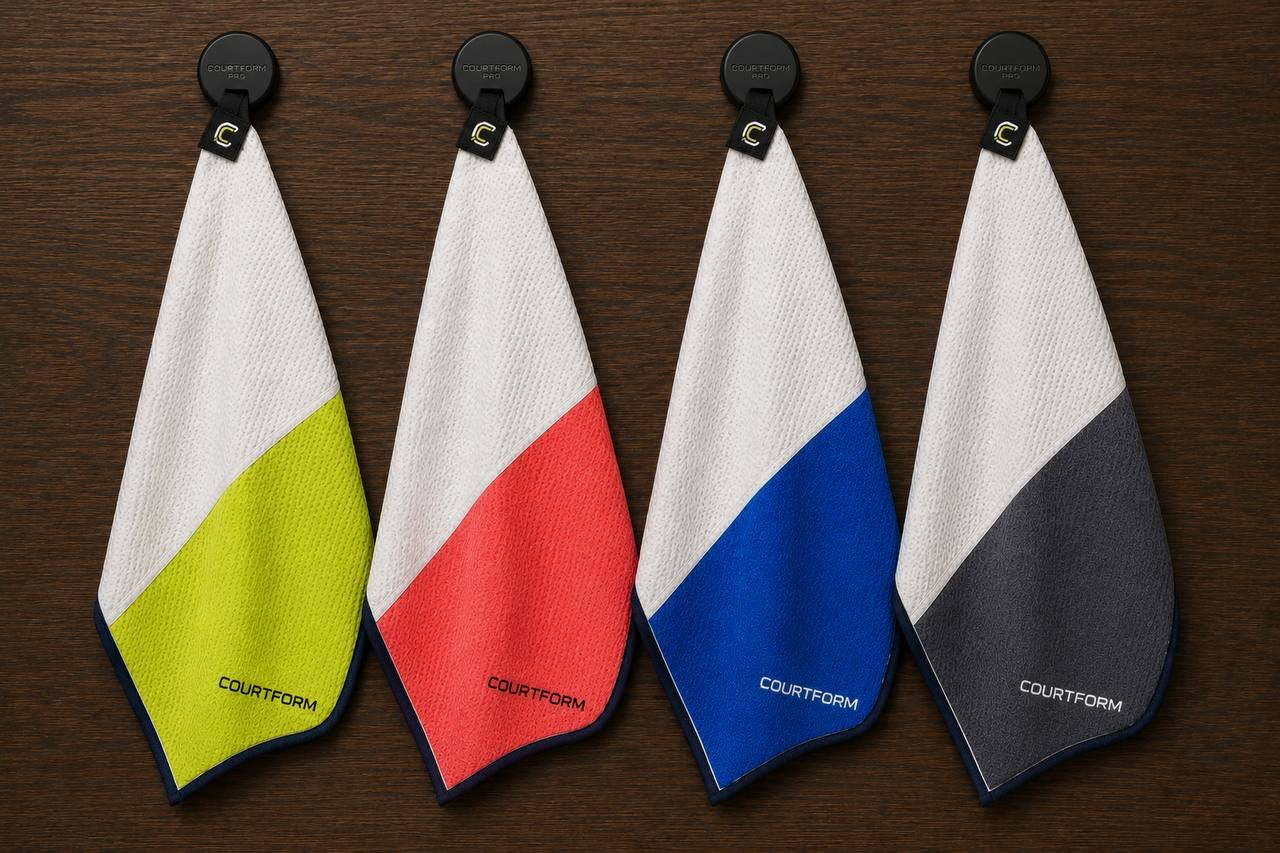
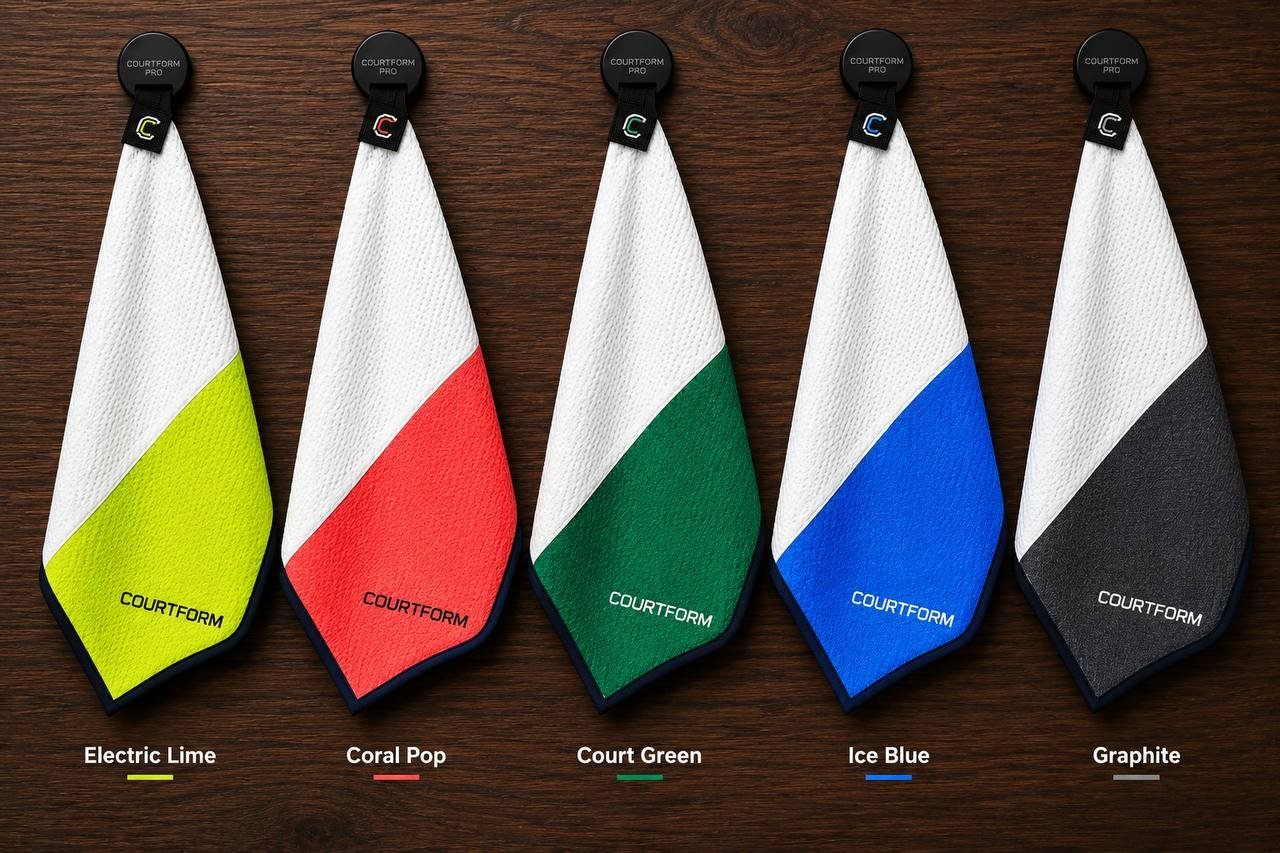
feat: 加 Court Green 第 5 色 + 更新 5 色 lineup 圖
- 06-color-lineup.jpg 換成 5 色（含 Court Green）
- 09-court-green-solo.jpg 單品圖入庫
- 規格區 swatches 從 4 色 → 5 色（grid-cols-5）
- 點 Court Green 切換尺寸圖為綠色（#22c55e）

diff --git a/index.html b/index.html
@@ -462,7 +462,7 @@
 
                 <div class="lg:w-1/2">
                     <h3 class="text-3xl font-bold text-white mb-8"><span data-i18n-en>Pick your court color</span><span data-i18n-zh>選擇你的戰鬥色彩</span></h3>
-                    <div class="grid grid-cols-2 sm:grid-cols-4 gap-6">
+                    <div class="grid grid-cols-2 sm:grid-cols-5 gap-4">
                         <div class="text-center cursor-pointer group" onclick="setTowelColor('#d4ed31', '#a3c423', this)" data-color="lime">
                             <div class="w-16 h-16 rounded-full mx-auto bg-brand-lime border-4 border-brand-dark shadow-[0_0_0_2px_rgba(255,255,255,0.2)] mb-3 group-hover:scale-110 transition-transform"></div>
                             <p class="text-sm font-bold text-white">ELECTRIC LIME</p>
@@ -472,6 +472,11 @@
                             <div class="w-16 h-16 rounded-full mx-auto bg-brand-coral border-4 border-brand-dark shadow-[0_0_0_2px_rgba(255,255,255,0.2)] mb-3 group-hover:scale-110 transition-transform"></div>
                             <p class="text-sm font-bold text-white">CORAL POP</p>
                             <p class="text-xs text-slate-500"><span data-i18n-en>Bold</span><span data-i18n-zh>珊瑚紅</span></p>
+                        </div>
+                        <div class="text-center cursor-pointer group" onclick="setTowelColor('#22c55e', '#15803d', this)" data-color="court-green">
+                            <div class="w-16 h-16 rounded-full mx-auto border-4 border-brand-dark shadow-[0_0_0_2px_rgba(255,255,255,0.2)] mb-3 group-hover:scale-110 transition-transform" style="background:#22c55e"></div>
+                            <p class="text-sm font-bold text-white">COURT GREEN</p>
+                            <p class="text-xs text-slate-500"><span data-i18n-en>Premium</span><span data-i18n-zh>球場綠</span></p>
                         </div>
                         <div class="text-center cursor-pointer group" onclick="setTowelColor('#3b82f6', '#1e40af', this)" data-color="ocean">
                             <div class="w-16 h-16 rounded-full mx-auto bg-brand-ocean border-4 border-brand-dark shadow-[0_0_0_2px_rgba(255,255,255,0.2)] mb-3 group-hover:scale-110 transition-transform"></div>
@@ -485,7 +490,7 @@
                         </div>
                     </div>
                     <div class="mt-8 aspect-[3/2] rounded-2xl border border-white/10 overflow-hidden relative">
-                        <img src="/images/06-color-lineup.jpg" alt="Courtform Pro 4 color lineup: Lime Pop, Coral Pop, Ocean Blue, Graphite" class="w-full h-full object-cover">
+                        <img src="/images/06-color-lineup.jpg" alt="Courtform Pro 5 color lineup: Electric Lime, Coral Pop, Court Green, Ice Blue, Graphite" class="w-full h-full object-cover">
                     </div>
                 </div>
             </div>
